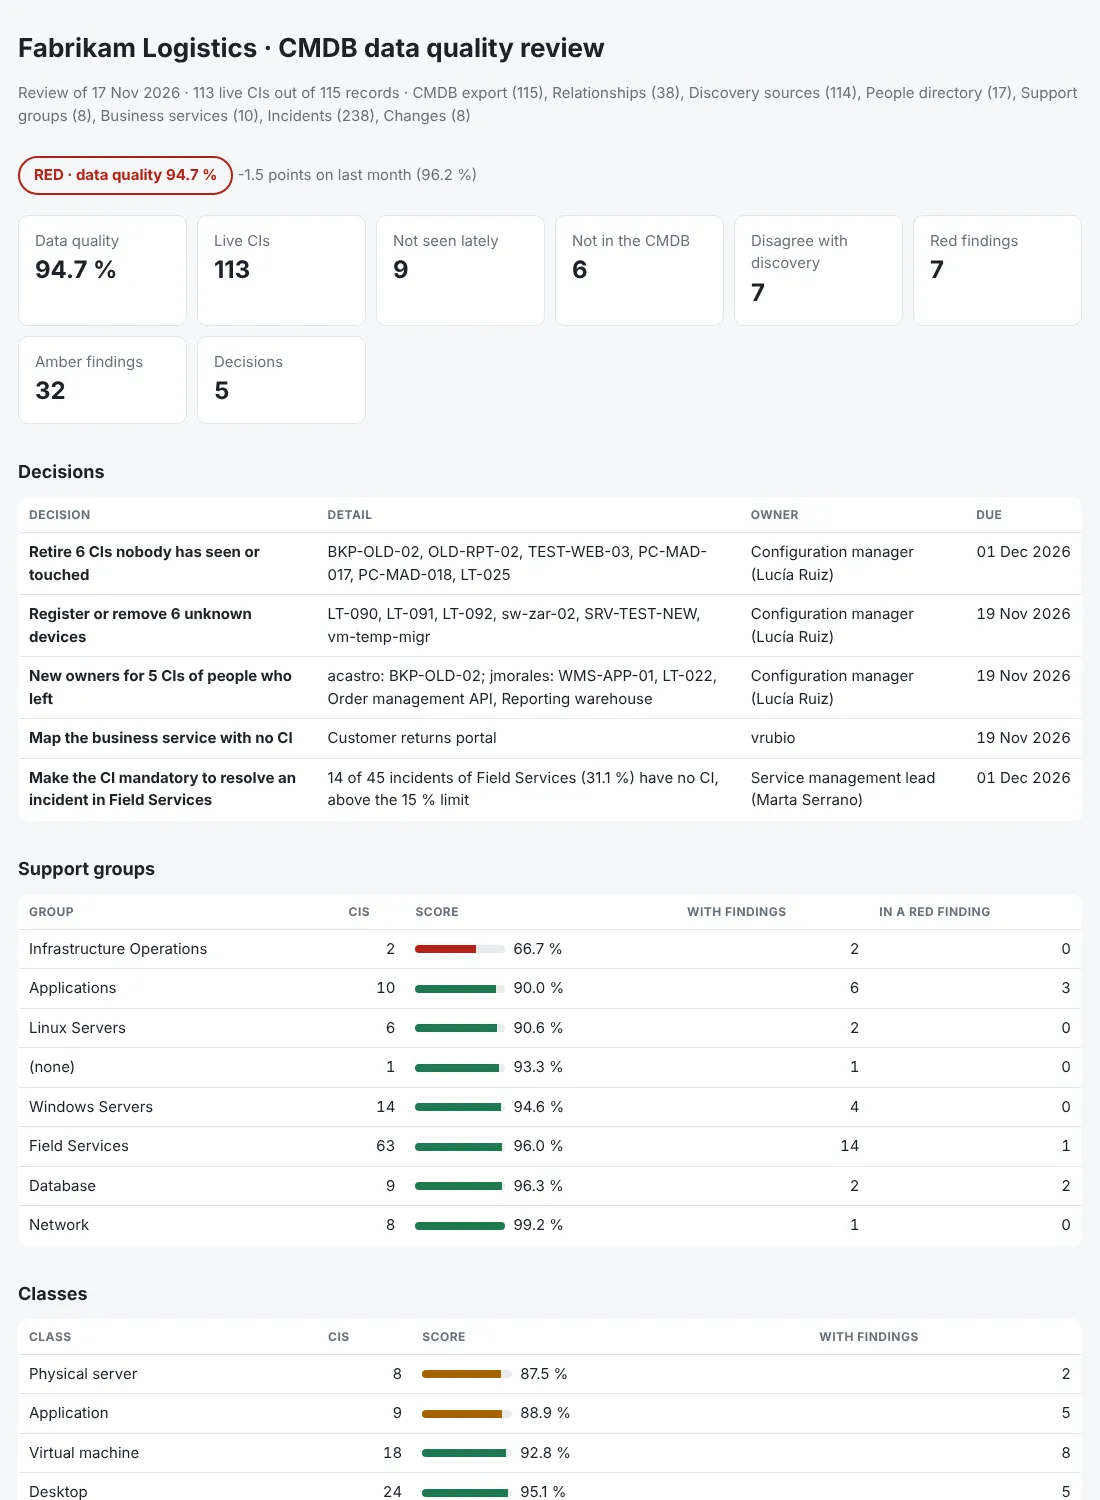
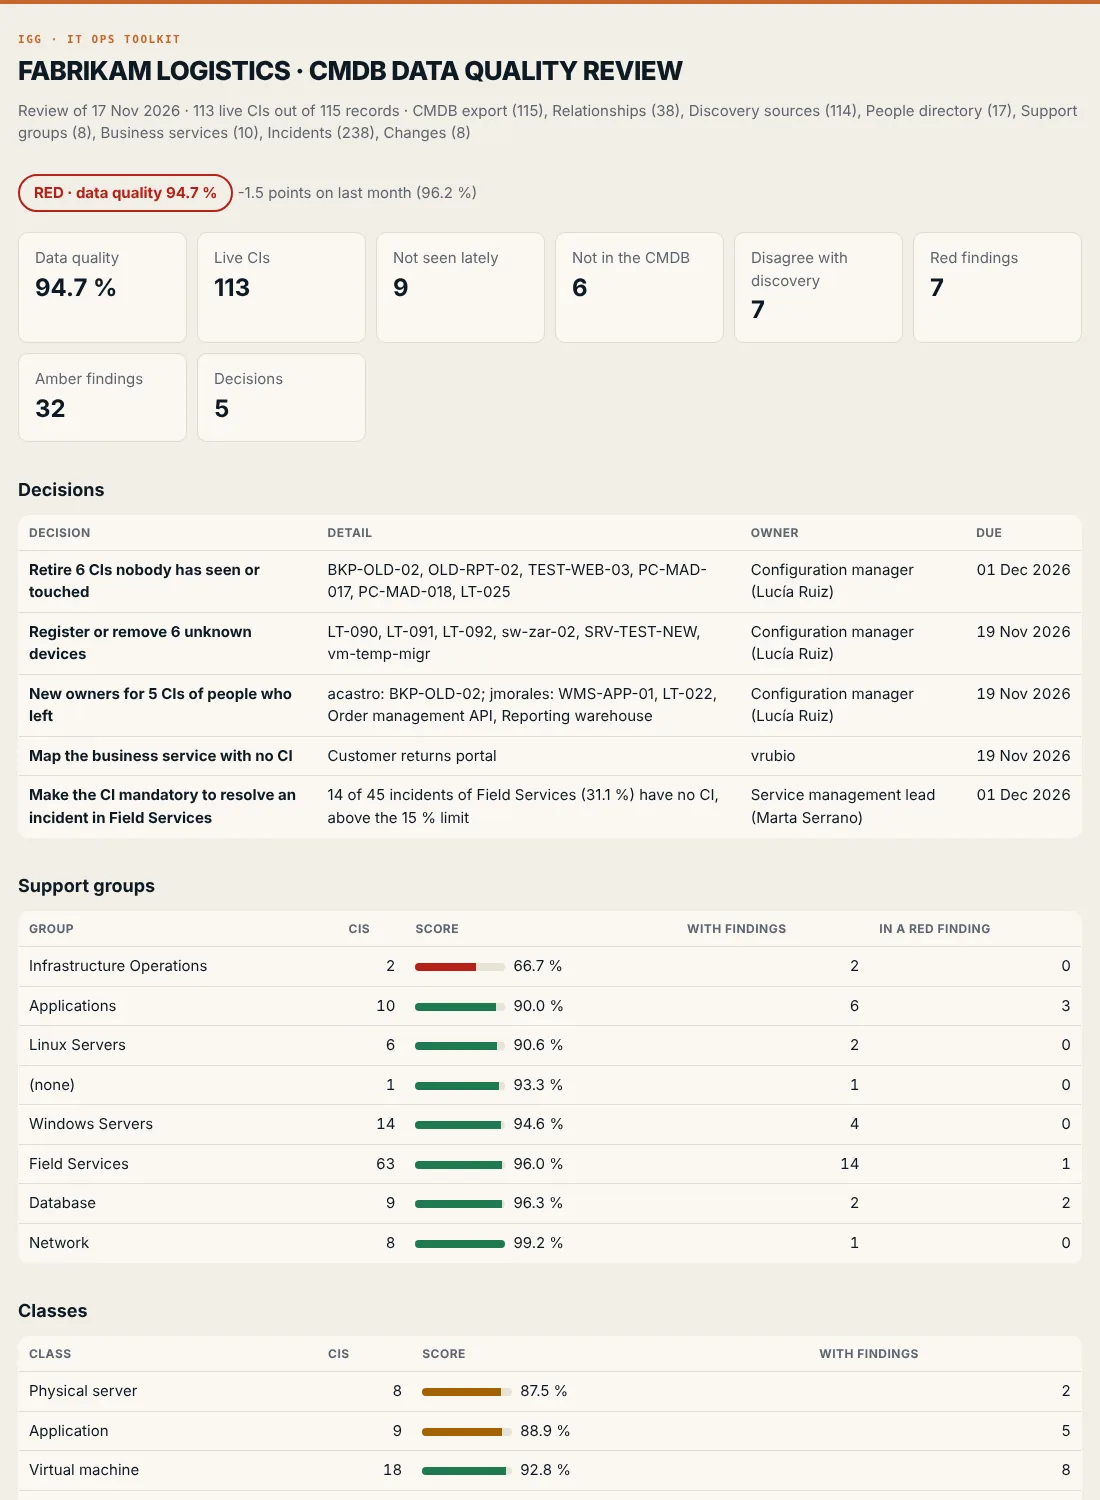
Report: IGG colours (paper, ink and the orange accent) and a new screenshot

diff --git a/cmdbreview/report.py b/cmdbreview/report.py
@@ -66,10 +66,10 @@ def pack_md(d: Data, rv: Review, title: str) -> str:
 
 
 CSS = """
-:root{--bg:#f6f7f8;--card:#fff;--ink:#1b2128;--muted:#66717c;--line:#e2e5e9;--ok:#1e7a4c;--warn:#a46200;--bad:#b42318;--track:#e9ecef}
-@media (prefers-color-scheme:dark){:root{--bg:#13171b;--card:#1b2127;--ink:#e7eaee;--muted:#9aa5b0;--line:#2b333b;--ok:#4cc38a;
+:root{--bg:#f2eee6;--card:#fbf8f3;--ink:#0e1a24;--muted:#5d6670;--line:#e2dccf;--ok:#1e7a4c;--warn:#a46200;--bad:#b42318;--track:#e8e2d6}
+@media (prefers-color-scheme:dark){:root{--bg:#0e1a24;--card:#142331;--ink:#f2eee6;--muted:#a9b3bb;--line:#24364a;--ok:#4cc38a;
 --warn:#f0a83a;--bad:#f2685c;--track:#2b333b}}
-*{box-sizing:border-box}body{margin:0;background:var(--bg);color:var(--ink);font:15px/1.5 system-ui,-apple-system,Segoe UI,sans-serif}
+*{box-sizing:border-box}body{border-top:4px solid #c4672b}h1{font-weight:800;letter-spacing:-.025em;text-transform:uppercase;line-height:1.05}h1::before{content:"IGG · IT Ops toolkit";display:block;font:600 11px/1.4 ui-monospace,SFMono-Regular,Menlo,monospace;letter-spacing:.14em;text-transform:uppercase;color:#c4672b;margin-bottom:10px}body{margin:0;background:var(--bg);color:var(--ink);font:15px/1.5 system-ui,-apple-system,Segoe UI,sans-serif}
 main{max-width:1100px;margin:0 auto;padding:28px 18px 60px}h1{font-size:26px;margin:0 0 4px}h2{font-size:18px;margin:34px 0 12px}
 .muted{color:var(--muted)}.tiles{display:grid;grid-template-columns:repeat(auto-fit,minmax(150px,1fr));gap:10px;margin-top:20px}
 .tile{background:var(--card);border:1px solid var(--line);border-radius:10px;padding:14px 16px}.tile b{display:block;font-size:24px}
